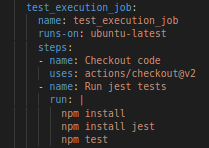
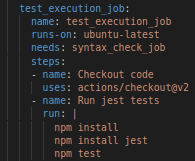
proof

diff --git a/README.md b/README.md
@@ -73,12 +73,12 @@ Servidor que tiene instalada la aplicación de ejecución de [Github Actions](#G
 <table>
 <tr>
     <td>
-                <img src="img/workflow.png">
+         <img src="img/workflow.png">
     </td>
     <td>
-    En nuestro workflow Bingo_Workflow.yml haremos lo siguiente: <br>
-    - Primero le asignaremos un nombre <br>
-    - Segundo le diremos que se ejecute cuando se suba a la rama githubActions_improvement
+         En nuestro workflow Bingo_Workflow.yml haremos lo siguiente: <br>
+         - Primero le asignaremos un nombre <br>
+         - Segundo le diremos que se ejecute cuando se suba a la   la rama githubActions_improvement
     </td>
 </tr>
 </table>
@@ -101,10 +101,10 @@ Este [job](#Jobs) se encargara de verificar que la sintáxis utilizada és corre
 </tr>
 <tr>
     <td>
-    Una vez subidos estos cambios a nuestro <br> repositorio podremos comprobar que  <br>  todo funciona correctamente
+         Una vez subidos estos cambios a nuestro <br> repositorio podremos comprobar que  <br>  todo funciona correctamente
     </td>
     <td>
-            <img src="img/Gsyntax.png">
+        <img src="img/Gsyntax.png">
     </td>
 </tr>
 </table>
@@ -118,7 +118,7 @@ Este [job](#Jobs) se encargara dese ejecutar los tests y verificar que todos fun
         <img src="img/tests.png">
     </td>
     <td>
-       Añadimos a jobs test_execution_job <br>  al cual le asignaremos varios seteps: <br> <br>
+       Añadimos a jobs test_execution_job, <br>  al cual le indicaremos que se ejecute <br> tras el job de linter,  ademas de  varios seteps: <br> 
         - Checkout code: Obtendrá el código fuente  <br> del proyecto ejecutando la action actions/checkout@v2<br>
         - Run jest test: Instalara lo necesario y ejecutará los tests
     </td>
